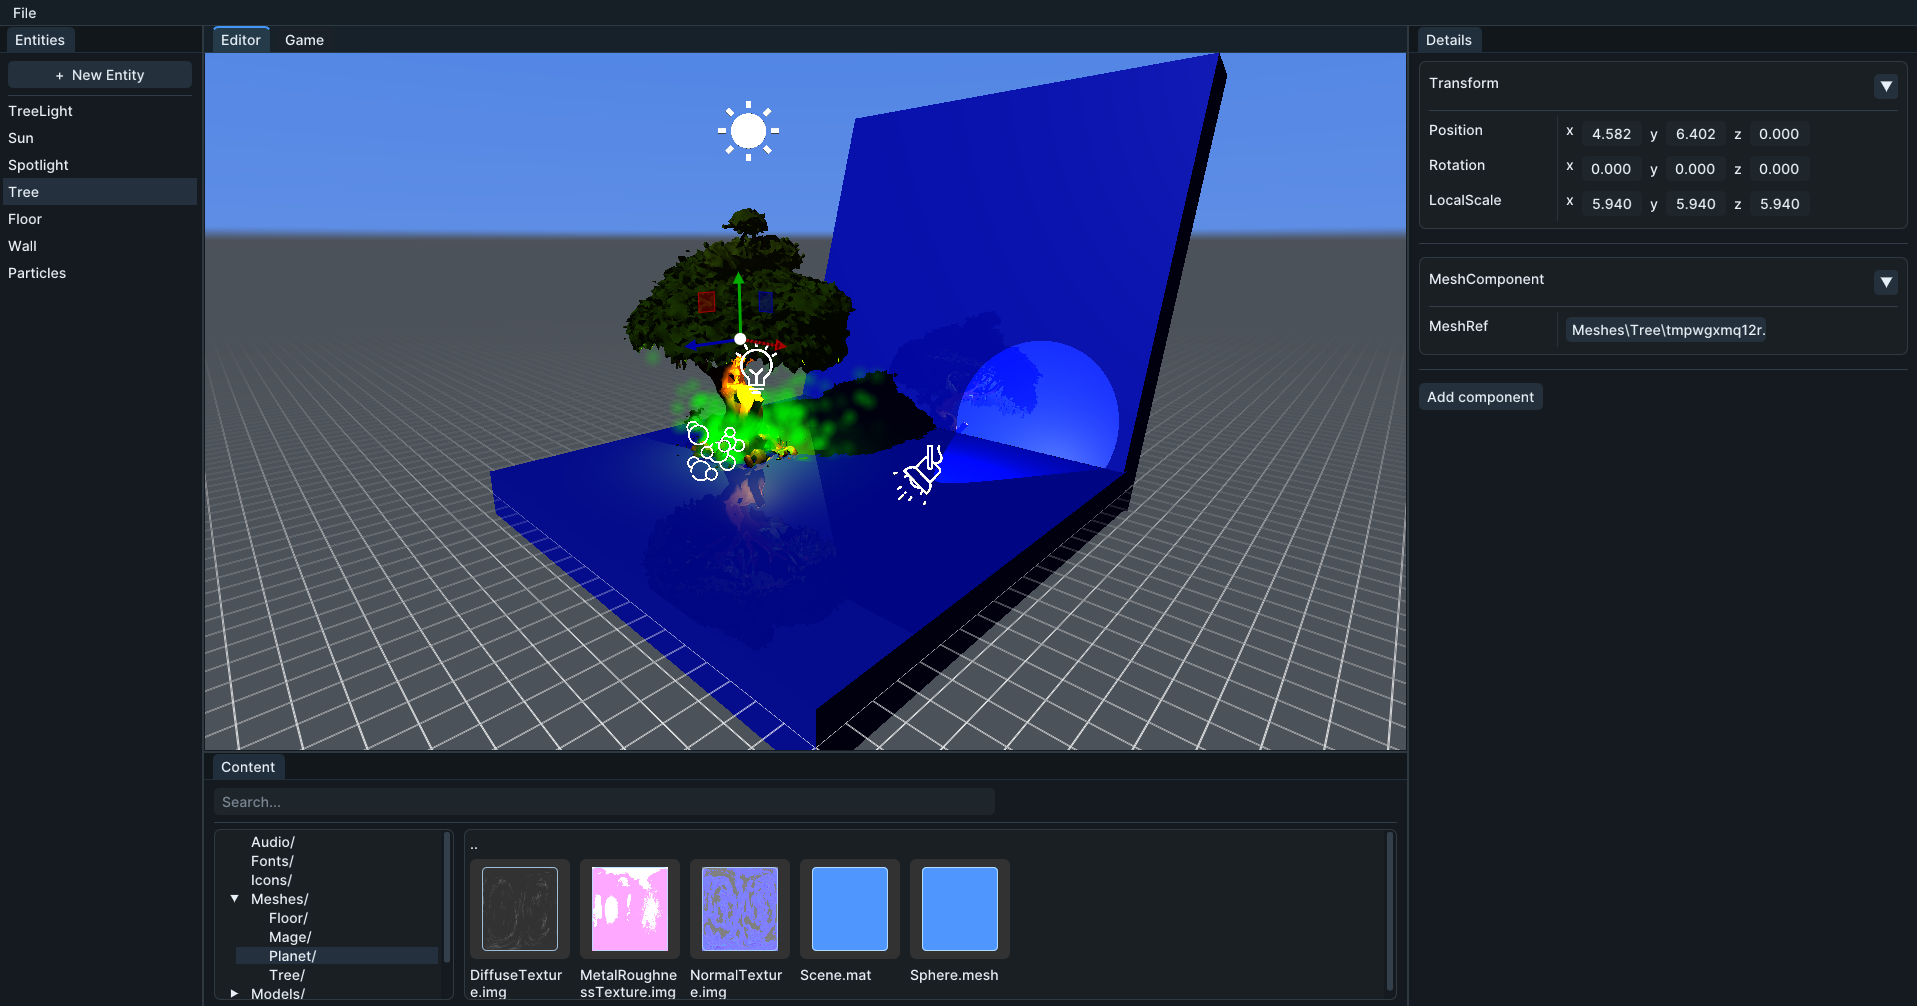
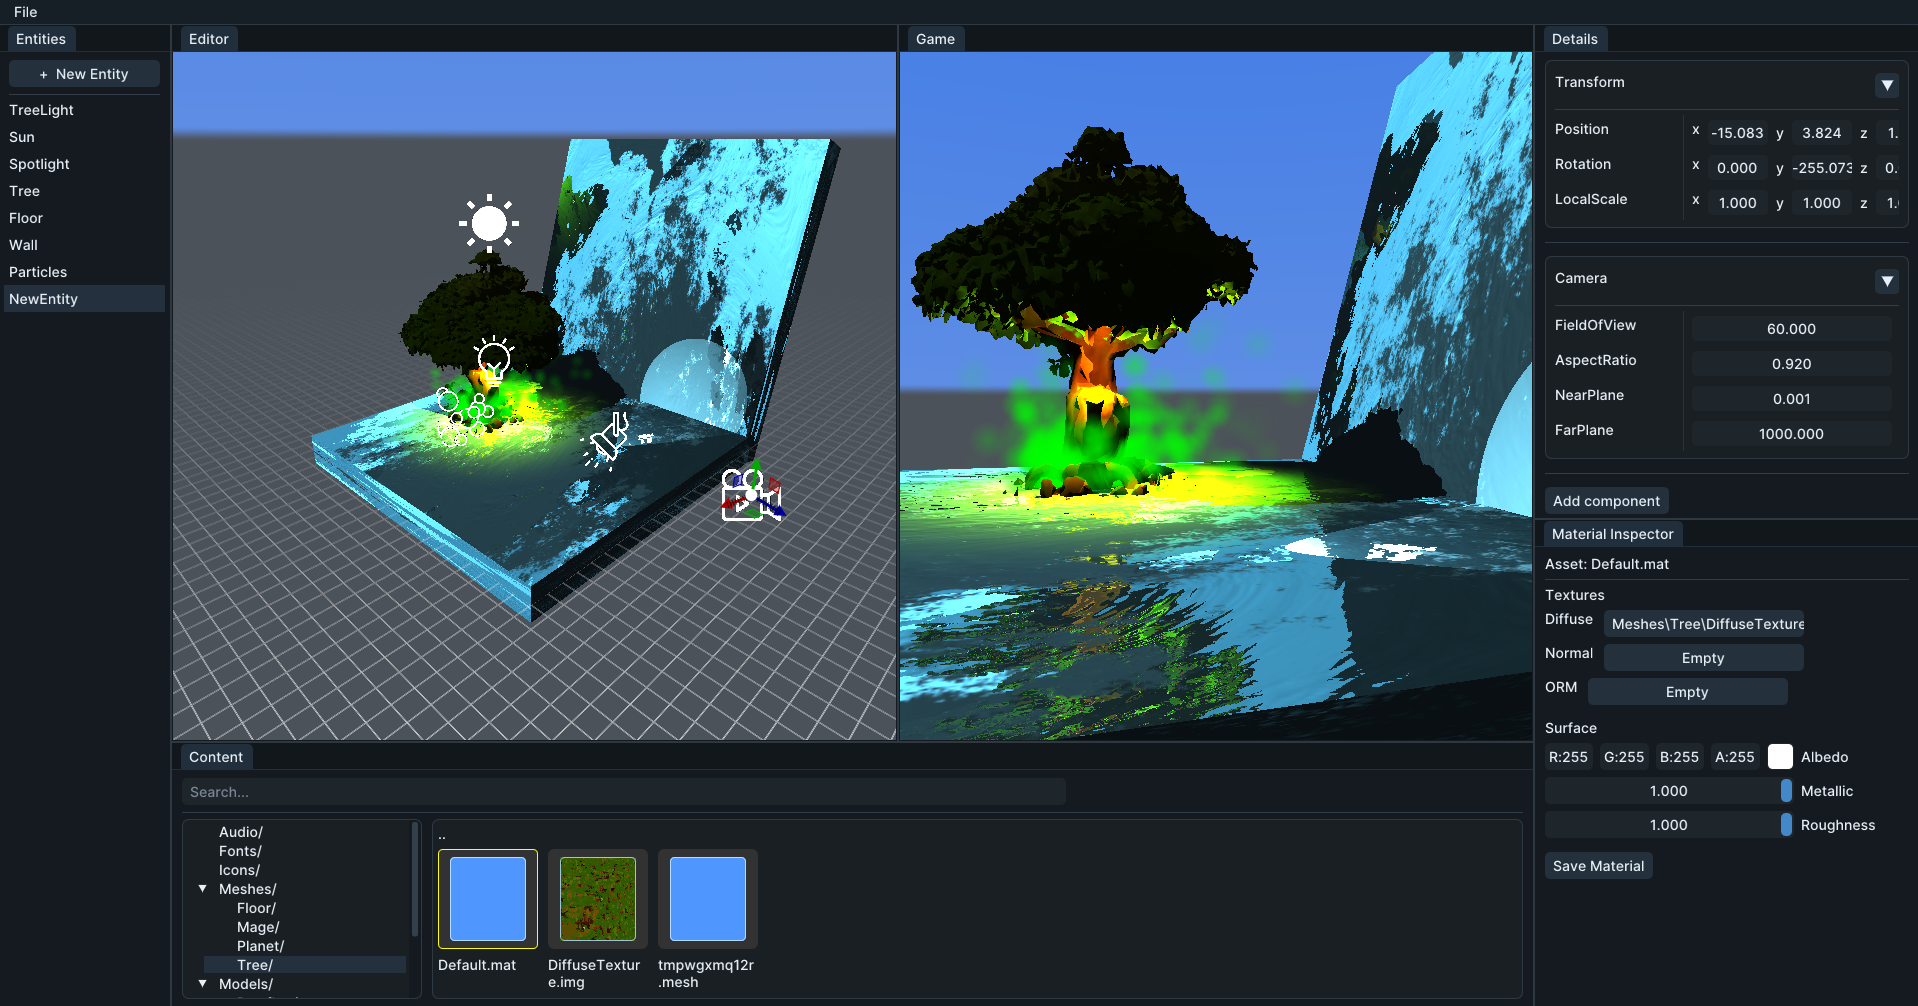
[ADD] material inspector [UPD] new image

diff --git a/Source/WaldemEditor/Widgets/MaterialInspectorWidget.h b/Source/WaldemEditor/Widgets/MaterialInspectorWidget.h
@@ -1,0 +1,205 @@
+#pragma once
+
+#include "Widget.h"
+#include "ContentBrowserWidget.h"
+#include "Waldem/AssetsManagement/ContentManager.h"
+#include "Waldem/ECS/ECS.h"
+#include "Waldem/ECS/Components/MeshComponent.h"
+#include "Waldem/Extensions/ImGUIExtension.h"
+#include "Waldem/Renderer/Model/Material.h"
+#include "Waldem/Utils/DataUtils.h"
+#include <fstream>
+#include <algorithm>
+
+namespace Waldem
+{
+    class MaterialInspectorWidget : public IWidget
+    {
+    private:
+        Path LoadedPath = "";
+        Material* LoadedMaterial = nullptr;
+        bool Dirty = false;
+
+        void UnloadMaterial()
+        {
+            if (LoadedMaterial)
+            {
+                delete LoadedMaterial;
+                LoadedMaterial = nullptr;
+            }
+
+            LoadedPath.clear();
+            Dirty = false;
+        }
+
+        void LoadMaterial(const Path& materialPath)
+        {
+            UnloadMaterial();
+
+            Path loadPath = materialPath;
+            if (loadPath.is_relative())
+            {
+                std::error_code ec;
+                Path rel = std::filesystem::relative(loadPath, CONTENT_PATH, ec);
+                if (!ec && !rel.empty() && rel.string().find("..") != 0)
+                {
+                    loadPath = rel;
+                }
+            }
+
+            LoadedMaterial = CContentManager::LoadAsset<Material>(loadPath);
+            if (LoadedMaterial)
+            {
+                LoadedPath = materialPath;
+            }
+        }
+
+        bool SaveLoadedMaterial()
+        {
+            if (!LoadedMaterial || LoadedPath.empty())
+            {
+                return false;
+            }
+
+            WDataBuffer outData;
+            LoadedMaterial->Serialize(outData);
+
+            uint64 hash = HashFromData(outData.GetData(), outData.GetSize());
+            outData.Prepend(&hash, sizeof(uint64));
+
+            std::ofstream outFile(LoadedPath.c_str(), std::ios::binary | std::ios::trunc);
+            if (!outFile.is_open())
+            {
+                return false;
+            }
+
+            outFile.write((const char*)outData.GetData(), outData.GetSize());
+            outFile.close();
+
+            auto normalizeMaterialPath = [](Path path)
+            {
+                if (path.empty() || path == "Empty")
+                {
+                    return std::string();
+                }
+
+                path.replace_extension(".mat");
+                if (path.is_relative())
+                {
+                    path = Path(CONTENT_PATH) / path;
+                }
+
+                std::error_code ec;
+                Path canonical = std::filesystem::weakly_canonical(path, ec);
+                if (!ec)
+                {
+                    path = canonical;
+                }
+
+                std::string s = path.generic_string();
+                std::transform(s.begin(), s.end(), s.begin(), [](unsigned char c) { return (char)std::tolower(c); });
+                return s;
+            };
+
+            const std::string targetMaterialPath = normalizeMaterialPath(LoadedPath);
+
+            ECS::World.query<MeshComponent>().each([&](flecs::entity entity, MeshComponent& meshComponent)
+            {
+                if (!meshComponent.MeshRef.IsValid() || !meshComponent.MeshRef.Mesh)
+                {
+                    return;
+                }
+
+                const std::string meshMaterialPath = normalizeMaterialPath(meshComponent.MeshRef.Mesh->MaterialRef.Reference);
+                if (meshMaterialPath != targetMaterialPath)
+                {
+                    return;
+                }
+
+                // Force material reload from disk for runtime mesh instances.
+                meshComponent.MeshRef.Mesh->MaterialRef.LoadAsset();
+                entity.modified<MeshComponent>();
+            });
+
+            Dirty = false;
+            return true;
+        }
+
+    public:
+        MaterialInspectorWidget() = default;
+
+        void Deinitialize() override
+        {
+            UnloadMaterial();
+        }
+
+        void OnDraw(float deltaTime) override
+        {
+            if (ImGui::Begin("Material Inspector", nullptr, ImGuiWindowFlags_NoCollapse | ImGuiWindowFlags_NoFocusOnAppearing | ImGuiWindowFlags_NoBringToFrontOnFocus))
+            {
+                const auto& selectedPath = ContentBrowserWidget::GetSelectedAssetPath();
+                bool selectedMaterial = selectedPath.has_value() && selectedPath->extension() == ".mat";
+
+                if (selectedMaterial)
+                {
+                    if (!LoadedMaterial || LoadedPath != selectedPath.value())
+                    {
+                        LoadMaterial(selectedPath.value());
+                    }
+                }
+
+                if (!LoadedMaterial)
+                {
+                    ImGui::TextUnformatted("Select a .mat asset in Content to inspect it.");
+                }
+                else
+                {
+                    ImGui::Text("Asset: %s", LoadedPath.filename().string().c_str());
+                    ImGui::Separator();
+
+                    ImGui::TextUnformatted("Textures");
+                    Path& diffuseRef = LoadedMaterial->GetDiffuseReference();
+                    Path& normalRef = LoadedMaterial->GetNormalReference();
+                    Path& ormRef = LoadedMaterial->GetORMReference();
+
+                    ImGui::AssetInputSlot(diffuseRef, "Texture", [&]() { Dirty = true; }, "Diffuse");
+                    ImGui::AssetInputSlot(normalRef, "Texture", [&]() { Dirty = true; }, "Normal");
+                    ImGui::AssetInputSlot(ormRef, "Texture", [&]() { Dirty = true; }, "ORM");
+
+                    ImGui::Spacing();
+                    ImGui::TextUnformatted("Surface");
+
+                    float albedo[4] = { LoadedMaterial->Albedo.x, LoadedMaterial->Albedo.y, LoadedMaterial->Albedo.z, LoadedMaterial->Albedo.w };
+                    if (ImGui::ColorEdit4("Albedo", albedo))
+                    {
+                        LoadedMaterial->Albedo = Vector4(albedo[0], albedo[1], albedo[2], albedo[3]);
+                        Dirty = true;
+                    }
+
+                    if (ImGui::SliderFloat("Metallic", &LoadedMaterial->Metallic, 0.0f, 1.0f))
+                    {
+                        Dirty = true;
+                    }
+
+                    if (ImGui::SliderFloat("Roughness", &LoadedMaterial->Roughness, 0.0f, 1.0f))
+                    {
+                        Dirty = true;
+                    }
+
+                    ImGui::Spacing();
+                    if (Dirty)
+                    {
+                        ImGui::TextColored(ImVec4(0.95f, 0.75f, 0.25f, 1.0f), "Unsaved changes");
+                    }
+
+                    if (ImGui::Button("Save Material"))
+                    {
+                        SaveLoadedMaterial();
+                    }
+                }
+            }
+
+            ImGui::End();
+        }
+    };
+}

diff --git a/Source/WaldemEngine/Waldem/ECS/Systems/CoreSystems/HybridRenderingSystem.h b/Source/WaldemEngine/Waldem/ECS/Systems/CoreSystems/HybridRenderingSystem.h
@@ -296,16 +296,19 @@ namespace Waldem
                             materialAttribute.Albedo = meshComponent.MeshRef.Mesh->MaterialRef.Mat->Albedo;
                             materialAttribute.Metallic = meshComponent.MeshRef.Mesh->MaterialRef.Mat->Metallic;
                             materialAttribute.Roughness = meshComponent.MeshRef.Mesh->MaterialRef.Mat->Roughness;
+                            materialAttribute.DiffuseTextureID = -1;
+                            materialAttribute.NormalTextureID = -1;
+                            materialAttribute.ORMTextureID = -1;
                             
                             if(meshComponent.MeshRef.Mesh->MaterialRef.Mat->HasDiffuseTexture())
                             {
                                 materialAttribute.DiffuseTextureID = meshComponent.MeshRef.Mesh->MaterialRef.Mat->GetDiffuseTexture()->GetIndex(SRV_CBV);
-                                
-                                if(meshComponent.MeshRef.Mesh->MaterialRef.Mat->HasNormalTexture())
-                                    materialAttribute.NormalTextureID = meshComponent.MeshRef.Mesh->MaterialRef.Mat->GetNormalTexture()->GetIndex(SRV_CBV);
-                                if(meshComponent.MeshRef.Mesh->MaterialRef.Mat->HasORMTexture())
-                                    materialAttribute.ORMTextureID = meshComponent.MeshRef.Mesh->MaterialRef.Mat->GetORMTexture()->GetIndex(SRV_CBV);
                             }
+
+                            if(meshComponent.MeshRef.Mesh->MaterialRef.Mat->HasNormalTexture())
+                                materialAttribute.NormalTextureID = meshComponent.MeshRef.Mesh->MaterialRef.Mat->GetNormalTexture()->GetIndex(SRV_CBV);
+                            if(meshComponent.MeshRef.Mesh->MaterialRef.Mat->HasORMTexture())
+                                materialAttribute.ORMTextureID = meshComponent.MeshRef.Mesh->MaterialRef.Mat->GetORMTexture()->GetIndex(SRV_CBV);
 
                             MaterialAttributesBuffer.UpdateData(&materialAttribute, sizeof(MaterialShaderAttribute), globalDrawId * sizeof(MaterialShaderAttribute));
 

diff --git a/Source/WaldemEditor/EditorLayer.h b/Source/WaldemEditor/EditorLayer.h
@@ -23,6 +23,7 @@
 #include "Widgets/GameViewportWidget.h"
 #include "Widgets/HierarchyWidget.h"
 #include "Widgets/MenuBarWidget.h"
+#include "Widgets/MaterialInspectorWidget.h"
 #include "Widgets/Widget.h"
 #include "Commands/EditorCommands.h"
 #include "EditorShortcuts.h"
@@ -68,6 +69,7 @@ namespace Waldem
             Widgets.Add(new GameViewportWidget());
             Widgets.Add(new HierarchyWidget());
             Widgets.Add(new EntityDetailsWidget());
+            Widgets.Add(new MaterialInspectorWidget());
             Widgets.Add(new ContentBrowserWidget());
             
             //do it after all entities set up
@@ -254,6 +256,7 @@ namespace Waldem
                 // Dock windows
                 ImGui::DockBuilderDockWindow("Entities", dock_left);
                 ImGui::DockBuilderDockWindow("Details", dock_details);
+                ImGui::DockBuilderDockWindow("Material Inspector", dock_details);
                 ImGui::DockBuilderDockWindow("Content", dock_bottom);
 
                 // 👉 Instead of splitting the center, dock both as tabs

diff --git a/Source/WaldemEditor/Widgets/ContentBrowserWidget.h b/Source/WaldemEditor/Widgets/ContentBrowserWidget.h
@@ -21,9 +21,15 @@ namespace Waldem
         float CellSize = 100.0f;
         float Padding = 16.0f;
         std::unordered_map<std::string, Texture2D*> TextureThumbnails;
+        inline static std::optional<Path> SharedSelectedAssetPath = std::nullopt;
         
     public:
         ContentBrowserWidget() {}
+
+        static const std::optional<Path>& GetSelectedAssetPath()
+        {
+            return SharedSelectedAssetPath;
+        }
 
         void Initialize(InputManager* inputManager) override
         {
@@ -241,6 +247,7 @@ namespace Waldem
             if (ImGui::IsItemClicked())
             {
                 SelectedAssetListPath = entry.path(); // Works for both files and folders
+                SharedSelectedAssetPath = entry.path();
             }
 
             // --- Highlight selected item ---
@@ -408,6 +415,7 @@ namespace Waldem
                 !ImGui::IsAnyItemHovered())
             {
                 SelectedAssetListPath.reset(); // Deselect
+                SharedSelectedAssetPath.reset();
             }
         }
 

diff --git a/Source/WaldemEngine/Waldem/Editor/AssetReference/TextureReference.h b/Source/WaldemEngine/Waldem/Editor/AssetReference/TextureReference.h
@@ -13,10 +13,29 @@ namespace Waldem
         
         void LoadAsset() override
         {
+            if (Texture)
+            {
+                Renderer::Destroy(Texture);
+                Texture = nullptr;
+            }
+
+            if (Reference.empty() || Reference == "Empty")
+            {
+                Texture = nullptr;
+                return;
+            }
+
             auto path = Reference;
             path.replace_extension(".img");
             auto textureDesc = CContentManager::LoadAsset<TextureDesc>(path);
+            if (!textureDesc)
+            {
+                Texture = nullptr;
+                return;
+            }
+
             Texture = Renderer::CreateTexture2D(textureDesc->Name, textureDesc->Width, textureDesc->Height, textureDesc->Format, textureDesc->Data);
+            delete textureDesc;
         }
 
         AssetType GetType() override { return AssetType::Texture; }

diff --git a/Source/WaldemEngine/Waldem/Renderer/Model/Material.cpp b/Source/WaldemEngine/Waldem/Renderer/Model/Material.cpp
@@ -22,19 +22,31 @@ namespace Waldem
 		inData >> Metallic;
 		inData >> Roughness;
 
-		if(DiffuseRef.Reference != "Empty")
+		if(!DiffuseRef.Reference.empty() && DiffuseRef.Reference != "Empty")
 		{
 			DiffuseRef.LoadAsset();
 		}
+        else
+        {
+            DiffuseRef.Texture = nullptr;
+        }
 
-		if(NormalRef.Reference != "Empty")
+		if(!NormalRef.Reference.empty() && NormalRef.Reference != "Empty")
 		{
 			NormalRef.LoadAsset();
 		}
+        else
+        {
+            NormalRef.Texture = nullptr;
+        }
 
-		if(MetalRoughnessRef.Reference != "Empty")
+		if(!MetalRoughnessRef.Reference.empty() && MetalRoughnessRef.Reference != "Empty")
 		{
 			MetalRoughnessRef.LoadAsset();
 		}
+        else
+        {
+            MetalRoughnessRef.Texture = nullptr;
+        }
 	}
 }

diff --git a/Source/WaldemEngine/Waldem/Renderer/Model/Material.h b/Source/WaldemEngine/Waldem/Renderer/Model/Material.h
@@ -18,7 +18,7 @@ namespace Waldem
         float Roughness = 1.0f;
     };
     
-    class Material : public Asset
+    class WALDEM_API Material : public Asset
     {
     public:
         Material() = default;
@@ -32,6 +32,10 @@ namespace Waldem
         bool HasDiffuseTexture() { return DiffuseRef.IsValid(); }
         bool HasNormalTexture() { return NormalRef.IsValid(); }
         bool HasORMTexture() { return MetalRoughnessRef.IsValid(); }
+
+        Path& GetDiffuseReference() { return DiffuseRef.Reference; }
+        Path& GetNormalReference() { return NormalRef.Reference; }
+        Path& GetORMReference() { return MetalRoughnessRef.Reference; }
         
         void Serialize(WDataBuffer& outData) override;
         

diff --git a/Source/WaldemEngine/Waldem/Editor/AssetReference/MaterialReference.h b/Source/WaldemEngine/Waldem/Editor/AssetReference/MaterialReference.h
@@ -14,6 +14,18 @@ namespace Waldem
         
         void LoadAsset() override
         {
+            if (Mat)
+            {
+                delete Mat;
+                Mat = nullptr;
+            }
+
+            if (Reference.empty() || Reference == "Empty")
+            {
+                Mat = nullptr;
+                return;
+            }
+
             auto path = Reference;
             path.replace_extension(".mat");
             Mat = CContentManager::LoadAsset<Material>(path);
